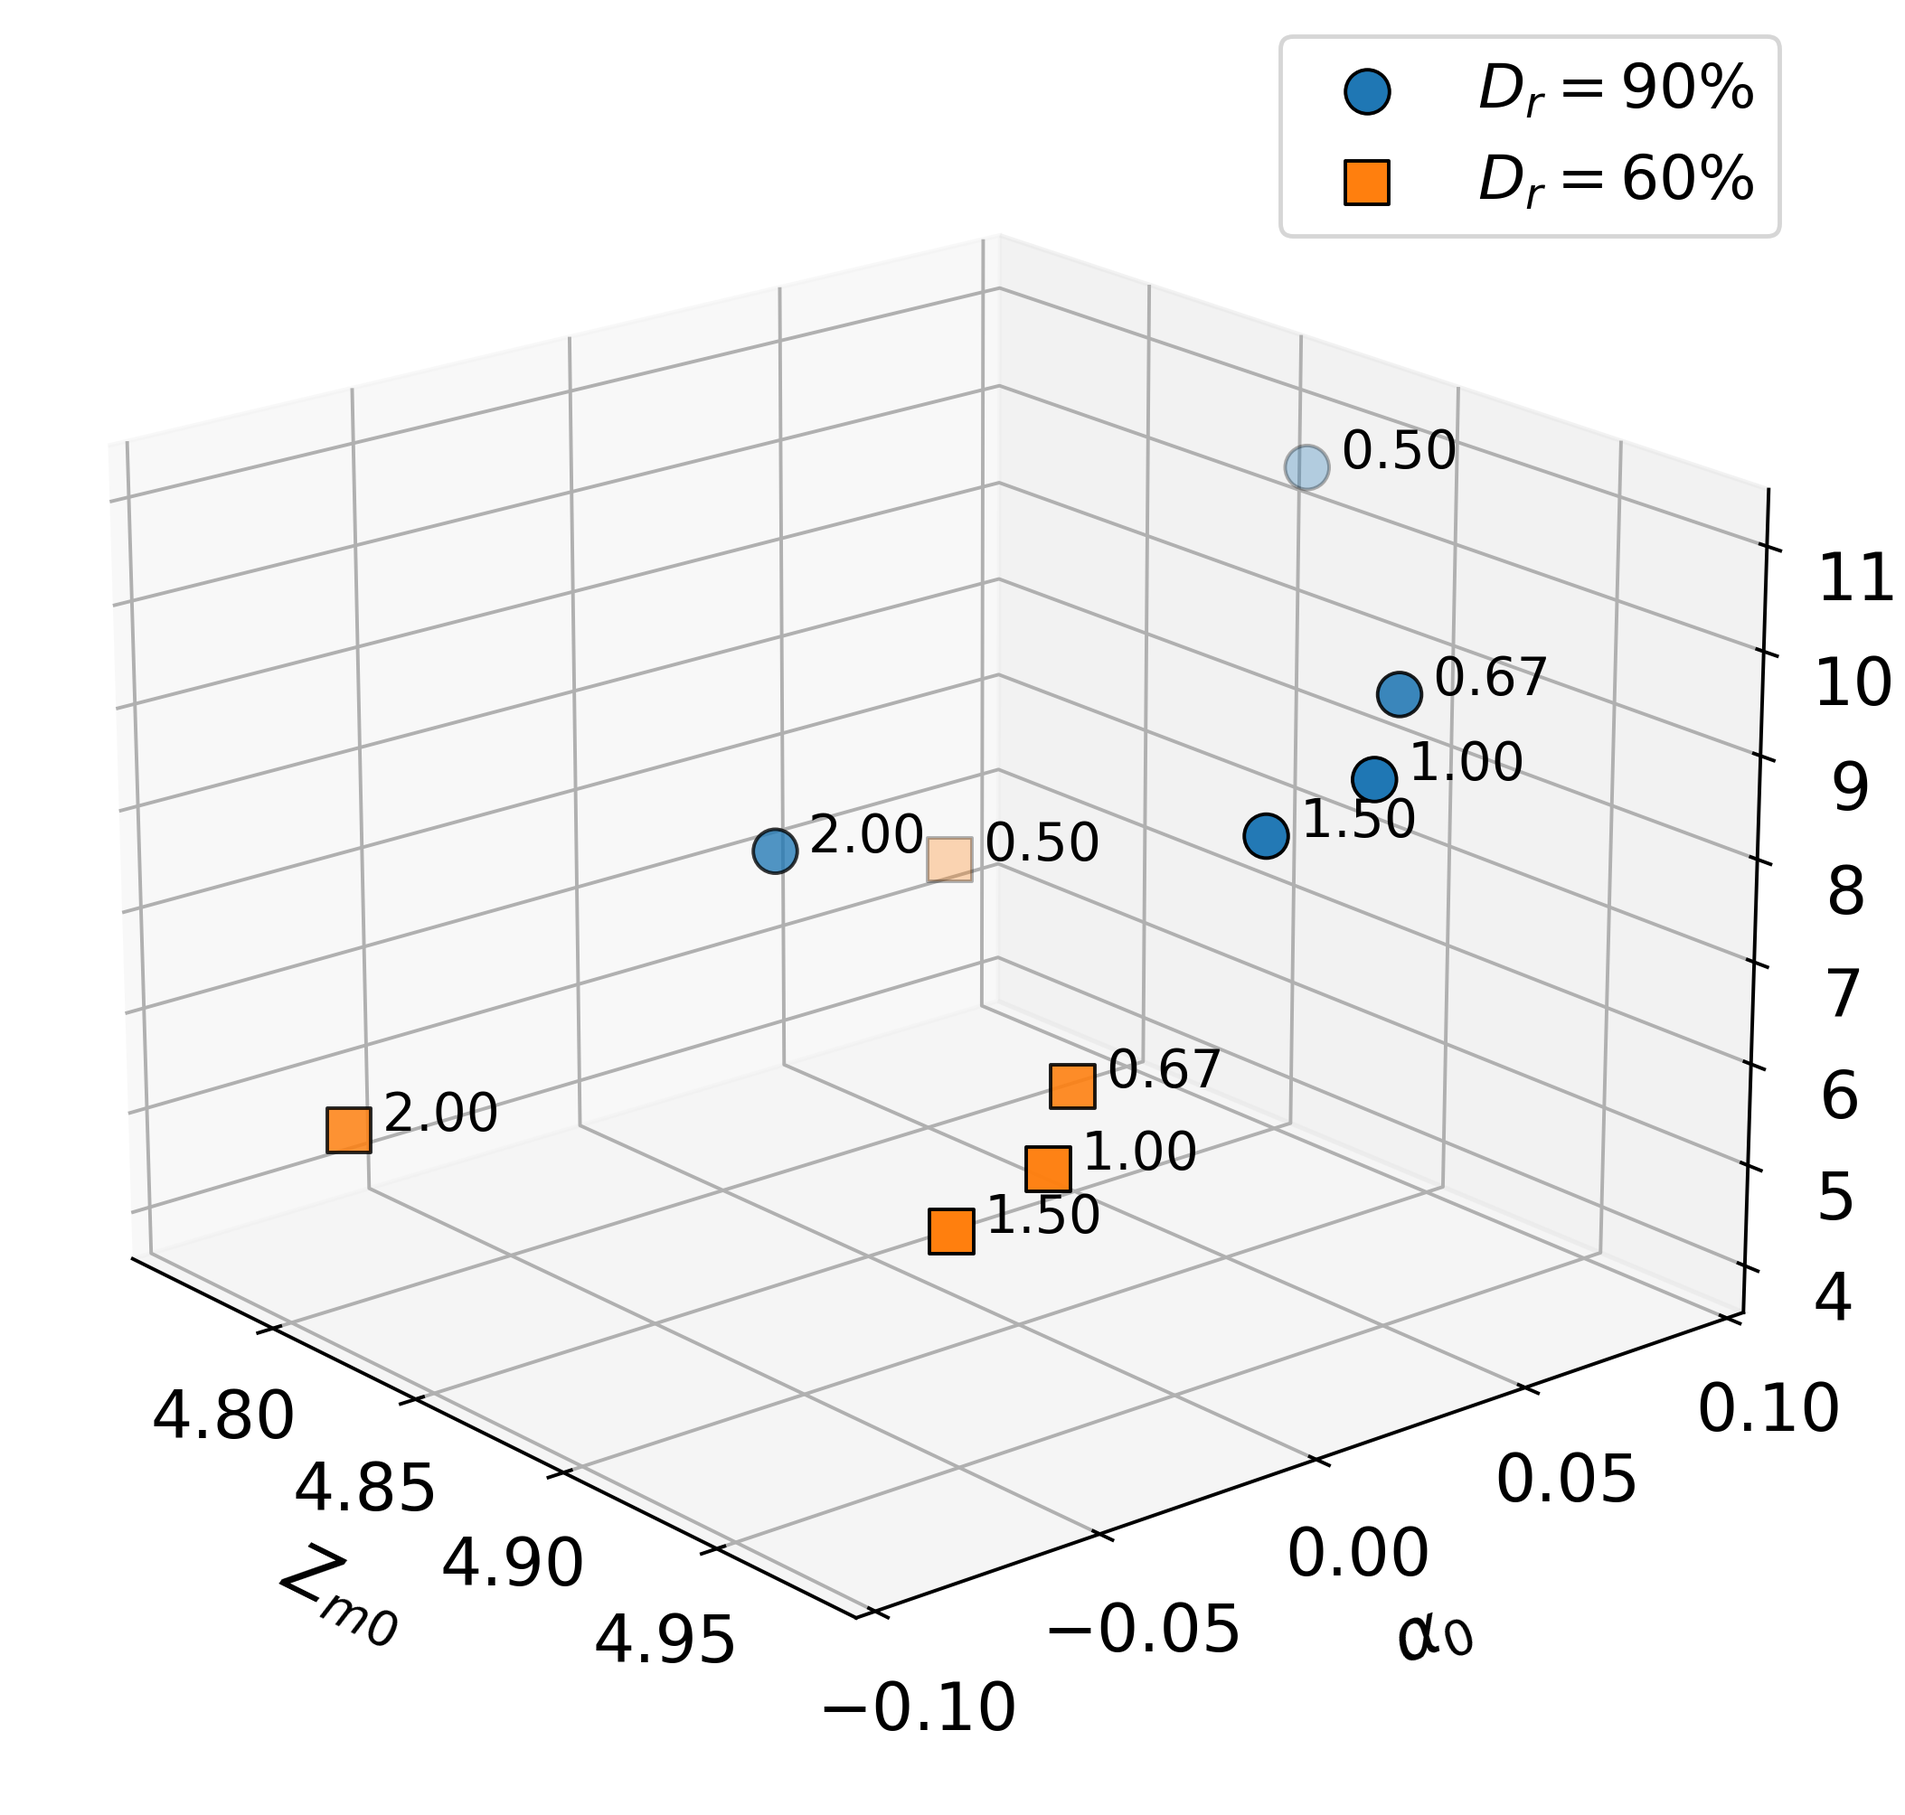
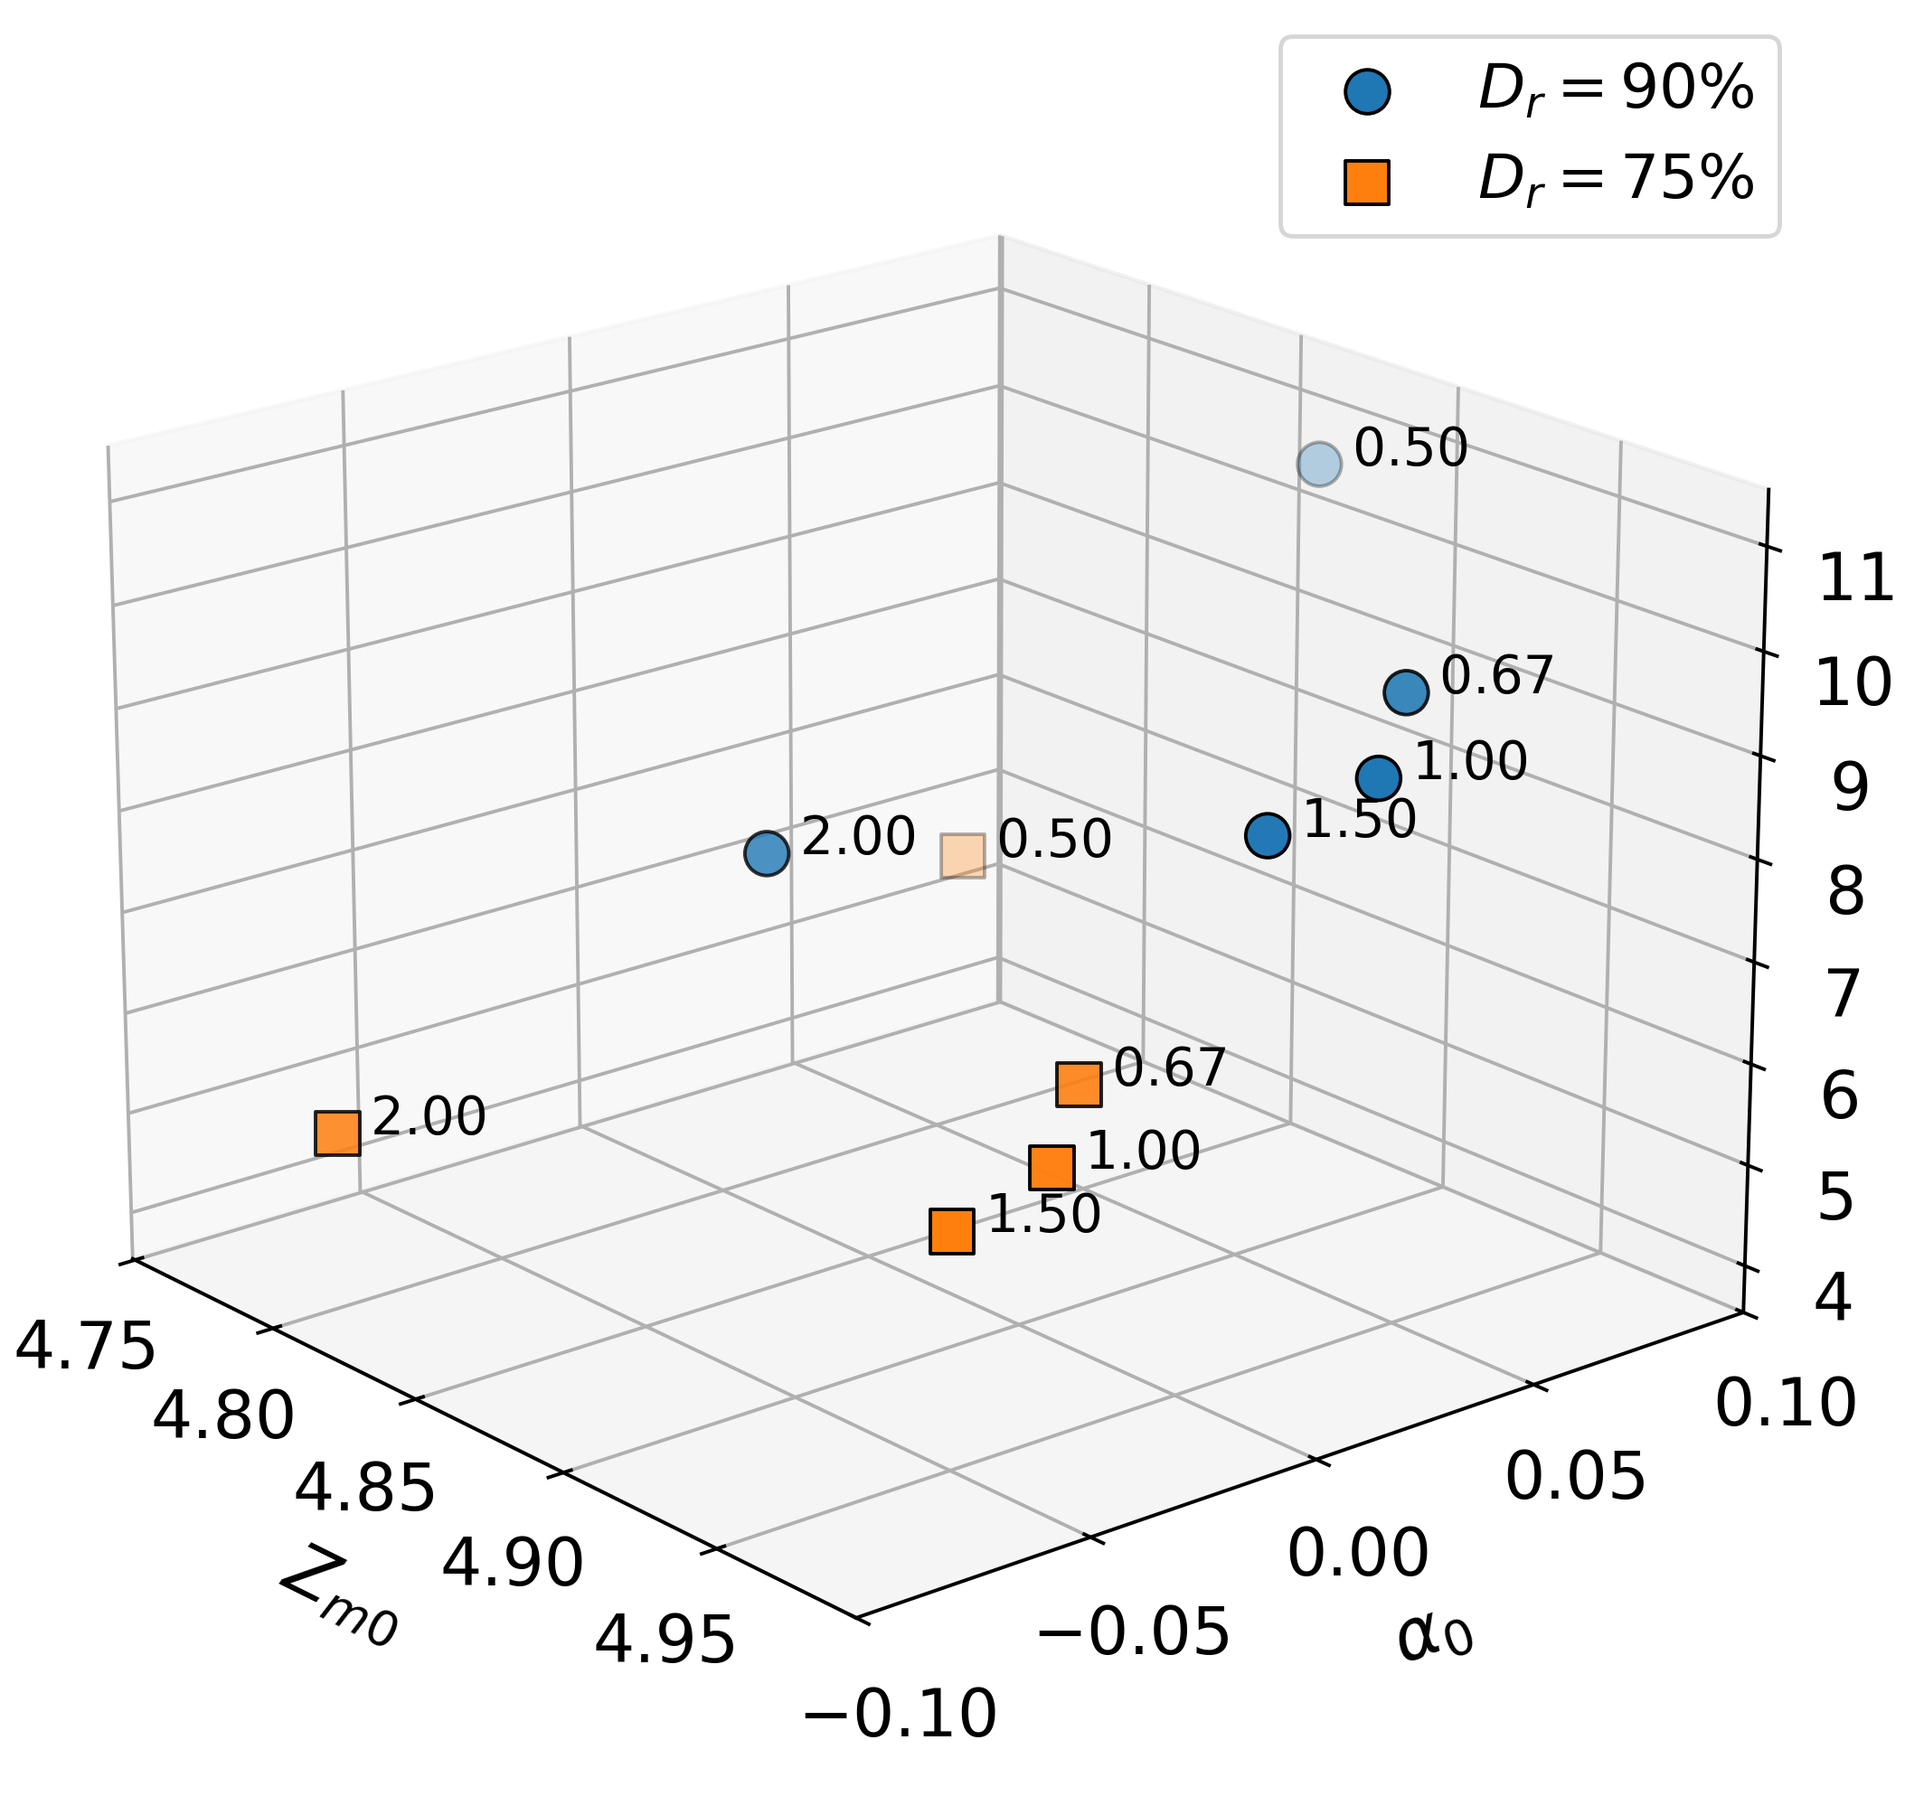
papers: update figures, highlights, results text, and plotting scripts
- Optimize fabric liquefaction figures (2D/3D) for readability
- Update highlights and main.tex page layout
- Minor fix in results/discussion section
- Add appendix_b.tex
- Refactor fabric_liq_2d.py and fabric_liq_3d.py plotting scripts

diff --git a/papers/sdee-k0-anisotropy/sections/appendix_b.tex b/papers/sdee-k0-anisotropy/sections/appendix_b.tex
@@ -1,0 +1,44 @@
+\section{Derivation of servo coefficients}
+\label{sec:appendix_servo}
+
+This appendix derives the servo coefficients used in the combined servo mechanism. The torsional servo coefficient $S_{cs}$ is independent of the other conditions and has been defined in \cref{eq:irot_scs}. Below, the radial and axial servo coefficients are derived by considering the volume-coupling effect.
+
+From the constant-volume constraint (\cref{eq:const_volume_constraint}), the outer radius rate is determined by:
+\begin{equation}
+\frac{dR}{dt} = -\frac{r}{R}\frac{dr}{dt} - \frac{R^2-r^2}{2RH}\frac{dH}{dt}.
+\label{eq:dRdt_general}
+\end{equation}
+
+Movement of both the inner wall ($dr$) and the top/bottom plates ($dH$) induces a change in the outer radius through \cref{eq:dRdt_general}, which in turn affects the radial stress. Let $K_{r,i}=\sum_{c\in\mathrm{inner}} k_n$ and $K_{r,o}=\sum_{c\in\mathrm{outer}} k_n$ denote the aggregate normal contact stiffness at the inner and outer cylinders, respectively, and $K_z=\sum_{c\in\mathrm{top/bottom}} k_n$ the aggregate normal contact stiffness at the top and bottom plates, where the summations run over all particle--wall contacts on the respective rigid boundaries. Since the contact normals on rigid cylindrical walls and flat plates are aligned with the radial and axial directions, respectively, no angular projection is required.
+
+The stress responses to the kinematic increments $dr$ and $dH$ can be expressed in matrix form:
+\begin{equation}
+\begin{pmatrix} \delta\sigma_{dif,r}^{\prime} \\[4pt] \delta\sigma_{dif,z}^{\prime} \end{pmatrix}
+=
+\underbrace{\begin{pmatrix} K_{r,i}+\dfrac{r}{R}\,K_{r,o} & \dfrac{R^2-r^2}{2RH}\,K_{r,o} \\[8pt] 0 & K_z \end{pmatrix}}_{\mathbf{K}}
+\begin{pmatrix} dr \\[4pt] dH \end{pmatrix},
+\label{eq:stiffness_matrix}
+\end{equation}
+where the off-diagonal term $K_{12}=\frac{R^2-r^2}{2RH}\,K_{r,o}$ represents the cross-coupling: an axial displacement $dH$ induces an outer wall displacement through the volume constraint, which alters the radial stress. The axial stress is assumed to depend primarily on top/bottom plate contacts, so the lower-left entry is approximately zero.
+
+Since $\mathbf{K}$ is upper triangular, its inverse is:
+\begin{equation}
+\mathbf{K}^{-1}
+=
+\begin{pmatrix} 1/K_{11} & -K_{12}/(K_{11}\,K_z) \\[6pt] 0 & 1/K_z \end{pmatrix},
+\label{eq:stiffness_matrix_inv}
+\end{equation}
+where $K_{11}=K_{r,i}+\frac{r}{R}\,K_{r,o}$. The servo equations then become:
+\begin{align}
+\frac{dr}{dt} &= \frac{1}{K_{11}}\,\frac{\Delta\sigma_{dif,r}^{\prime}}{\Delta t} - \frac{K_{12}}{K_{11}\,K_z}\,\frac{\Delta\sigma_{dif,z}^{\prime}}{\Delta t}, \label{eq:dr_general}\\[6pt]
+\frac{dH}{dt} &= \frac{1}{K_z}\,\frac{\Delta\sigma_{dif,z}^{\prime}}{\Delta t}. \label{eq:dH_general}
+\end{align}
+
+The first term in \cref{eq:dr_general} is the direct radial correction, while the second term compensates for the cross-coupling from axial movement. The axial servo coefficient $S_{cz}=1/K_z$ remains independent of the volume coupling.
+
+Under the constant-height condition ($dH/dt=0$) adopted for all cyclic shear simulations in this study, $K_{12}\,dH$ vanishes, and \cref{eq:dr_general} reduces to:
+\begin{equation}
+S_{cr} = \frac{1}{K_{r,i}+\dfrac{r}{R}\,K_{r,o}}.
+\label{eq:Scr_constantH}
+\end{equation}
+For the general case ($dH/dt\neq 0$), such as the monotonic shear validation in \cref{subsec:calibration_validation}, the decoupled servo equations (\cref{eq:cond1_radial,eq:cond2_axial}) with $S_{cr}=1/K_{11}$ and $S_{cz}=1/K_z$ are applied independently at each timestep, and convergence is achieved through iterative application of the servo mechanism. In practice, a relaxation factor less than unity is applied to the servo coefficients to ensure numerical stability and suppress oscillation.

diff --git a/papers/sdee-k0-anisotropy/main.tex b/papers/sdee-k0-anisotropy/main.tex
@@ -100,14 +100,16 @@
 The influence of initial stress anisotropy on liquefaction resistance was investigated using three-dimensional discrete element method (DEM) simulations of undrained cyclic torsional shear in hollow cylindrical specimens. A combined servo mechanism was employed to reproduce laboratory-like hollow cylinder apparatus boundary conditions under the constant-volume approximation. The investigation proceeded in two stages. First, specimens at a dense state were consolidated to a mean effective stress of 100~kPa at three representative lateral-to-vertical effective stress ratios (\Kzero{} = 0.5, 1.0, and 2.0) and subjected to cyclic loading across multiple cyclic stress ratios. The results show that liquefaction resistance exhibits a clear directional dependency: compression-state specimens (\Kzero{} = 0.5) require the most loading cycles to liquefy, isotropic specimens (\Kzero{} = 1.0) show intermediate resistance, and extension-state specimens (\Kzero{} = 2.0) liquefy fastest. Macroscopic analysis reveals that this ordering is governed by differences in stiffness degradation rate rather than the total cumulative shear work at liquefaction. Second, the simulation matrix was expanded to two relative densities and five \Kzero{} values (0.5, 0.67, 1.0, 1.5, and 2.0), yielding ten cases to disentangle packing compactness from directional fabric effects. Microscopic analysis demonstrates that, while the mechanical coordination number primarily reflects packing compactness, the signed fabric anisotropy indicator correlates more directly with the variation in liquefaction resistance among different \Kzero{} states. Contact-density distributions and force-chain visualizations further confirm that initially distinct fabric morphologies progressively converge toward a common configuration near liquefaction, regardless of the initial stress anisotropy.
 \end{abstract}
 
-% ---------- Highlights ----------
-\begin{highlights}
-\item DEM reproduces undrained cyclic HCA responses under anisotropic consolidation
-\item Liquefaction resistance depends on both magnitude and direction of \Kzero{} anisotropy
-\item Compression-state specimens show higher resistance than isotropic and extension states
-\item Coordination number and fabric anisotropy jointly explain \Kzero{}-dependent trends
-\item Fabric indicators converge toward similar values near post-liquefaction states
-\end{highlights}
+% ---------- Highlights (rendered as a separate page-0 by CAS template) ----------
+% Highlights are provided in highlights.txt for journal submission;
+% commenting out here to avoid an extra page in the compiled PDF.
+% \begin{highlights}
+% \item DEM reproduces undrained cyclic HCA responses under anisotropic consolidation
+% \item Liquefaction resistance depends on both magnitude and direction of \Kzero{} anisotropy
+% \item Compression-state specimens show higher resistance than isotropic and extension states
+% \item Coordination number and fabric anisotropy jointly explain \Kzero{}-dependent trends
+% \item Fabric indicators converge toward similar values near post-liquefaction states
+% \end{highlights}
 
 % ---------- Keywords ----------
 \begin{keywords}
@@ -139,6 +141,7 @@ Data will be made available on request.
 
 \appendix
 \input{sections/appendix_a}
+\input{sections/appendix_b}
 
 % ---------- Bibliography ----------
 \bibliographystyle{cas-model2-names}

diff --git a/papers/sdee-k0-anisotropy/sections/03_results_discussion.tex b/papers/sdee-k0-anisotropy/sections/03_results_discussion.tex
@@ -56,7 +56,7 @@ To quantify the \Kzero{} effect over a range of cyclic stress ratios, the CSR--$
   \label{fig:liq_resistance_curves}
 \end{figure}
 
-The liquefaction resistance curves exhibit a clear directional dependency on initial stress anisotropy. For all CSR levels considered, the isotropically consolidated state (\Kzero{} = 1.0) shows intermediate resistance. The compression-state specimen (\Kzero{} = 0.5) exhibits the highest liquefaction resistance, requiring more cycles to reach liquefaction, whereas the extension-state specimen (\Kzero{} = 2.0) shows the lowest resistance. This trend indicates that the effect of \Kzero{} depends not only on the magnitude of stress anisotropy but also on its direction: compression-type anisotropy (\Kzero{} < 1.0) enhances liquefaction resistance relative to the isotropic state, while extension-type anisotropy (\Kzero{} > 1.0) reduces it. The inset at CSR = 0.300 further confirms that the intermediate states (\Kzero{} = 0.67 and 1.5) fall in the expected order between the three representative cases (i.e., $N_L$ decreases monotonically from \Kzero{} = 0.5 to 2.0).
+The liquefaction resistance curves exhibit a clear directional dependency on initial stress anisotropy. For all CSR levels considered, the isotropically consolidated state (\Kzero{} = 1.0) shows intermediate resistance. The compression-state specimen (\Kzero{} = 0.5) exhibits the highest liquefaction resistance, requiring more cycles to reach liquefaction, whereas the extension-state specimen (\Kzero{} = 2.0) shows the lowest resistance. This trend indicates that the effect of \Kzero{} depends not only on the magnitude of stress anisotropy but also on its direction: compression-type anisotropy (\Kzero{} < 1.0) enhances liquefaction resistance relative to the isotropic state, while extension-type anisotropy (\Kzero{} > 1.0) reduces it. The inset at CSR = 0.300 further confirms that the intermediate states (\Kzero{} = 0.67 and 1.5) fall in the expected order between the three representative cases (i.e., $N_L$ decreases monotonically from \Kzero{} = 0.5 to 2.0). This directional dependency is consistent with the recent HCA experimental findings of \citet{Zhao2024}, who reported higher monotonic and cyclic shear strengths under compressive anisotropic consolidation than under extensional consolidation.
 
 \subsection{Energy and stiffness interpretations}
 \label{subsec:energy_stiffness}

diff --git a/torsionSim/cyclic_shear/fabric_liq_2d.py b/torsionSim/cyclic_shear/fabric_liq_2d.py
@@ -7,9 +7,10 @@ import matplotlib.pyplot as plt
 BASE_DIR = Path(__file__).resolve().parent
 
 k0s = [0.5, 0.67, 1.0, 1.5, 2.0]
-drs = ['Dr80', 'Dr60']
-dr_markers = {'Dr80': 'o', 'Dr60': 's'}
-dr_labels = {'Dr80': r'$D_r=90\%$', 'Dr60': r'$D_r=60\%$'}
+drs = ['Dr80', 'Dr75']
+dr_dirs = {'Dr80': 'Dr80', 'Dr75': 'Dr60'}
+dr_markers = {'Dr80': 'o', 'Dr75': 's'}
+dr_labels = {'Dr80': r'$D_r=90\%$', 'Dr75': r'$D_r=75\%$'}
 period = 1.0 / 8.0
 
 FS_AX = 14
@@ -22,9 +23,10 @@ results = []
 
 for dr in drs:
 	for k0 in k0s:
-		shear_file = BASE_DIR / ("%s/k%.2f/csr_0.300/torsion_shear.csv" % (dr, k0))
-		cn_file = BASE_DIR / ("%s/k%.2f/csr_0.300/MechCoordinationNumber.csv" % (dr, k0))
-		alpha_file = BASE_DIR / ("%s/k%.2f/csr_0.300/alpha_mech.csv" % (dr, k0))
+		dr_dir = dr_dirs[dr]
+		shear_file = BASE_DIR / ("%s/k%.2f/csr_0.300/torsion_shear.csv" % (dr_dir, k0))
+		cn_file = BASE_DIR / ("%s/k%.2f/csr_0.300/MechCoordinationNumber.csv" % (dr_dir, k0))
+		alpha_file = BASE_DIR / ("%s/k%.2f/csr_0.300/alpha_mech.csv" % (dr_dir, k0))
 		try:
 			df_shear = pd.read_csv(shear_file, header=0)
 			df_cn = pd.read_csv(cn_file, header=0)
@@ -58,9 +60,9 @@ offsets_a = {
 	('Dr80', 0.50): (12, 6), ('Dr80', 0.67): (12, 6),
 	('Dr80', 1.00): (12, -3), ('Dr80', 1.50): (12, -12),
 	('Dr80', 2.00): (12, 6),
-	('Dr60', 0.50): (12, 6), ('Dr60', 0.67): (12, 6),
-	('Dr60', 1.00): (12, -3), ('Dr60', 1.50): (-36, -16),
-	('Dr60', 2.00): (12, -14),
+	('Dr75', 0.50): (12, 6), ('Dr75', 0.67): (12, 6),
+	('Dr75', 1.00): (12, -3), ('Dr75', 1.50): (-36, -16),
+	('Dr75', 2.00): (12, -14),
 }
 
 
@@ -93,8 +95,8 @@ def plot_zm_vs_nl(ax, show_panel_label=True):
 offsets_b = {
 	('Dr80', 0.50): (-18, -16), ('Dr80', 0.67): (-10, 8), ('Dr80', 1.00): (-10, 8),
 	('Dr80', 1.50): (-10, 8), ('Dr80', 2.00): (8, -14),
-	('Dr60', 0.50): (-18, -16), ('Dr60', 0.67): (-10, 8), ('Dr60', 1.00): (-10, 8),
-	('Dr60', 1.50): (-10, -16), ('Dr60', 2.00): (8, -14),
+	('Dr75', 0.50): (-18, -16), ('Dr75', 0.67): (-10, 8), ('Dr75', 1.00): (-10, 8),
+	('Dr75', 1.50): (-10, -16), ('Dr75', 2.00): (8, -14),
 }
 
 

diff --git a/torsionSim/cyclic_shear/fabric_liq_3d.py b/torsionSim/cyclic_shear/fabric_liq_3d.py
@@ -8,9 +8,10 @@ from mpl_toolkits.mplot3d import Axes3D
 BASE_DIR = Path(__file__).resolve().parent
 
 k0s = [0.5, 0.67, 1.0, 1.5, 2.0]
-drs = ['Dr80', 'Dr60']
-dr_markers = {'Dr80': 'o', 'Dr60': 's'}
-dr_labels = {'Dr80': r'$D_r=90\%$', 'Dr60': r'$D_r=60\%$'}
+drs = ['Dr80', 'Dr75']
+dr_dirs = {'Dr80': 'Dr80', 'Dr75': 'Dr60'}
+dr_markers = {'Dr80': 'o', 'Dr75': 's'}
+dr_labels = {'Dr80': r'$D_r=90\%$', 'Dr75': r'$D_r=75\%$'}
 period = 1.0 / 8.0
 
 FS_AX = 16
@@ -22,9 +23,10 @@ results = []
 
 for dr in drs:
 	for k0 in k0s:
-		shear_file = BASE_DIR / ("%s/k%.2f/csr_0.300/torsion_shear.csv" % (dr, k0))
-		cn_file = BASE_DIR / ("%s/k%.2f/csr_0.300/MechCoordinationNumber.csv" % (dr, k0))
-		alpha_file = BASE_DIR / ("%s/k%.2f/csr_0.300/alpha_mech.csv" % (dr, k0))
+		dr_dir = dr_dirs[dr]
+		shear_file = BASE_DIR / ("%s/k%.2f/csr_0.300/torsion_shear.csv" % (dr_dir, k0))
+		cn_file = BASE_DIR / ("%s/k%.2f/csr_0.300/MechCoordinationNumber.csv" % (dr_dir, k0))
+		alpha_file = BASE_DIR / ("%s/k%.2f/csr_0.300/alpha_mech.csv" % (dr_dir, k0))
 		try:
 			df_shear = pd.read_csv(shear_file, header=0)
 			df_cn = pd.read_csv(cn_file, header=0)
